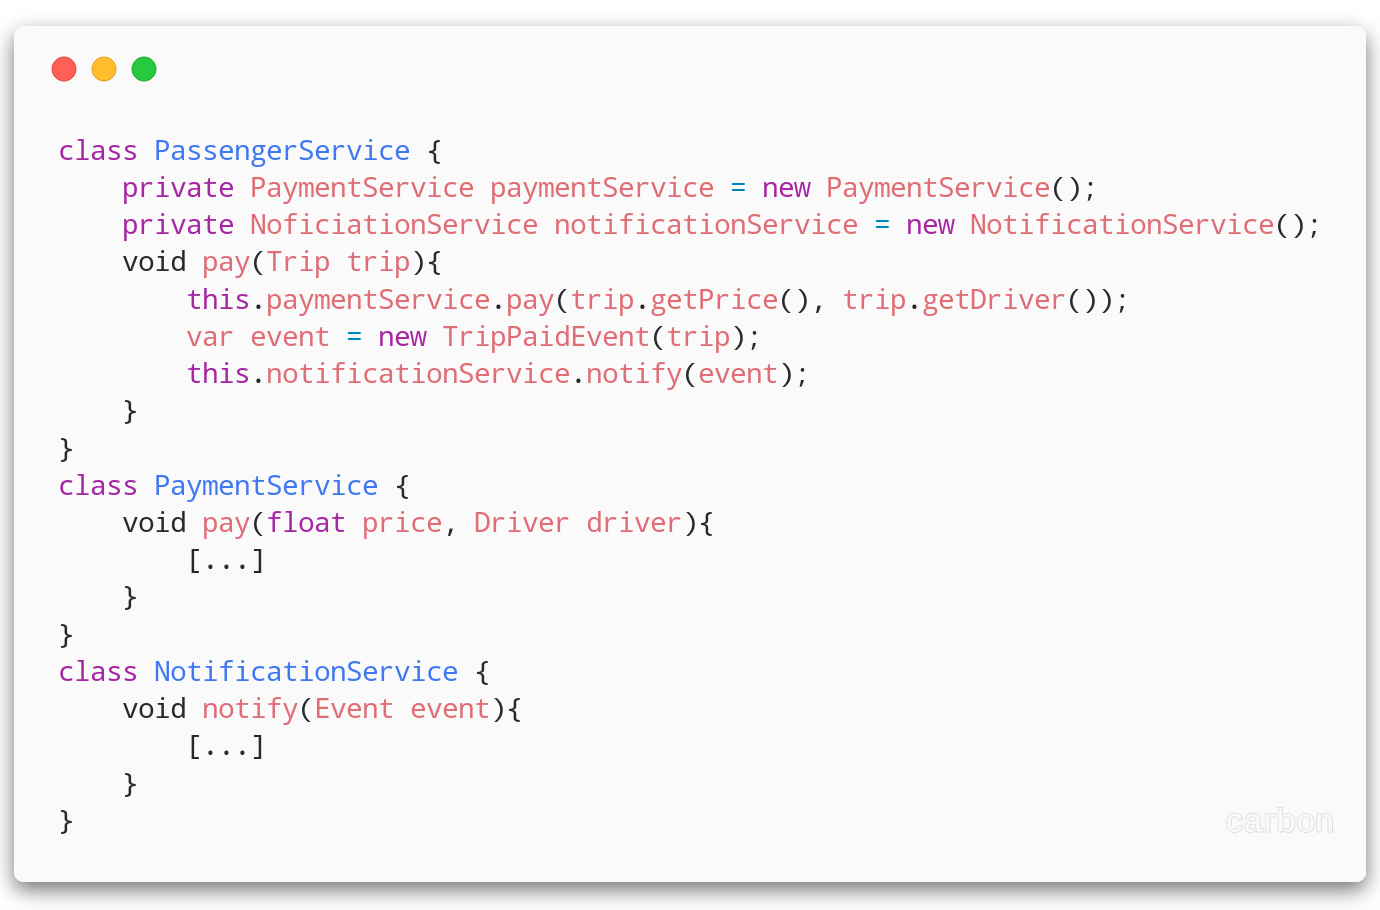
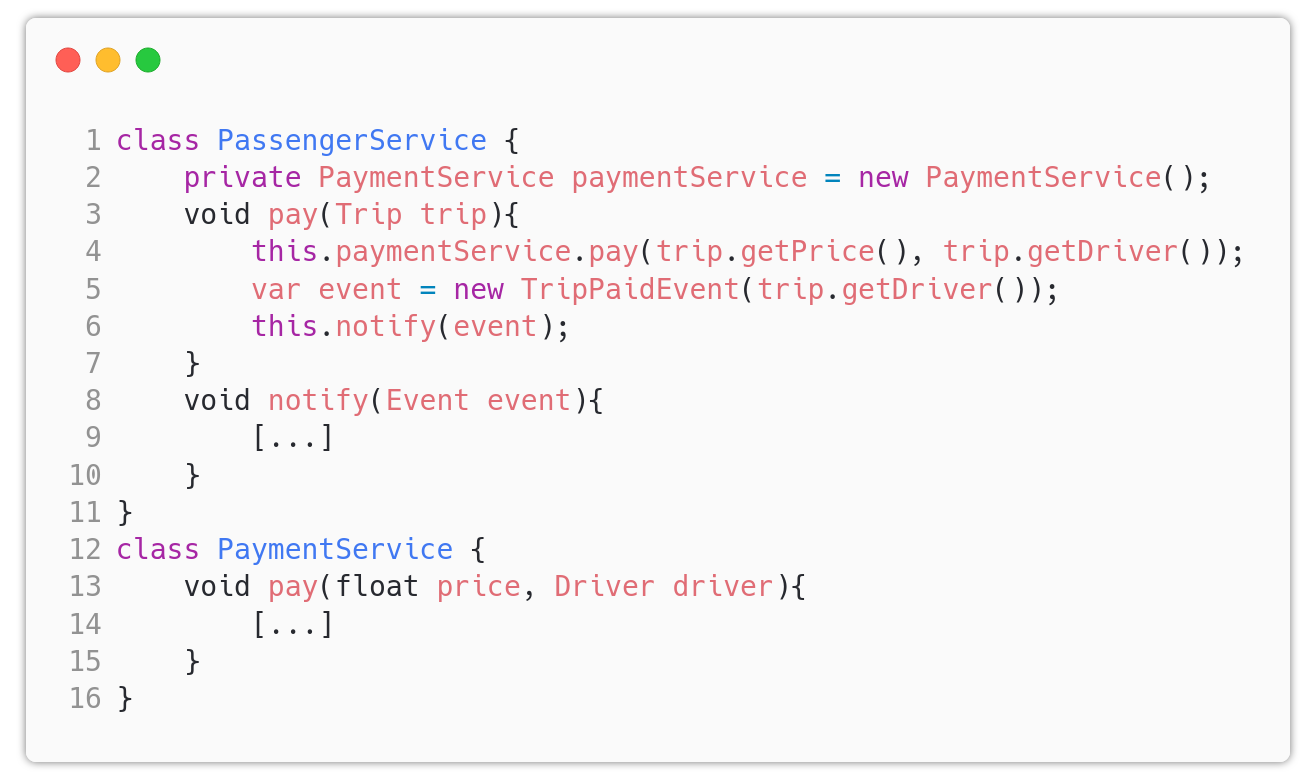
♻ : update PassengerService bad example

diff --git a/cours/03-spring/carbon/passengerService.java b/cours/03-spring/carbon/passengerService.java
@@ -1,19 +1,19 @@
+import java.sql.Driver;mport java.sql.Driver;
+
 class PassengerService {
     private PaymentService paymentService = new PaymentService();
     private NotificationService notificationService = new NotificationService();
     void pay(Trip trip){
         this.paymentService.pay(trip.getPrice(), trip.getDriver());
         var event = new TripPaidEvent(trip.getDriver());
-        this.notificationService.notify(event);
+        this.notify(event);
+    }
+    void notify(Event event){
+        [...]
     }
 }
 class PaymentService {
     void pay(float price, Driver driver){
-        [...]
-    }
-}
-class NotificationService {
-    void notify(Event event){
         [...]
     }
 }
